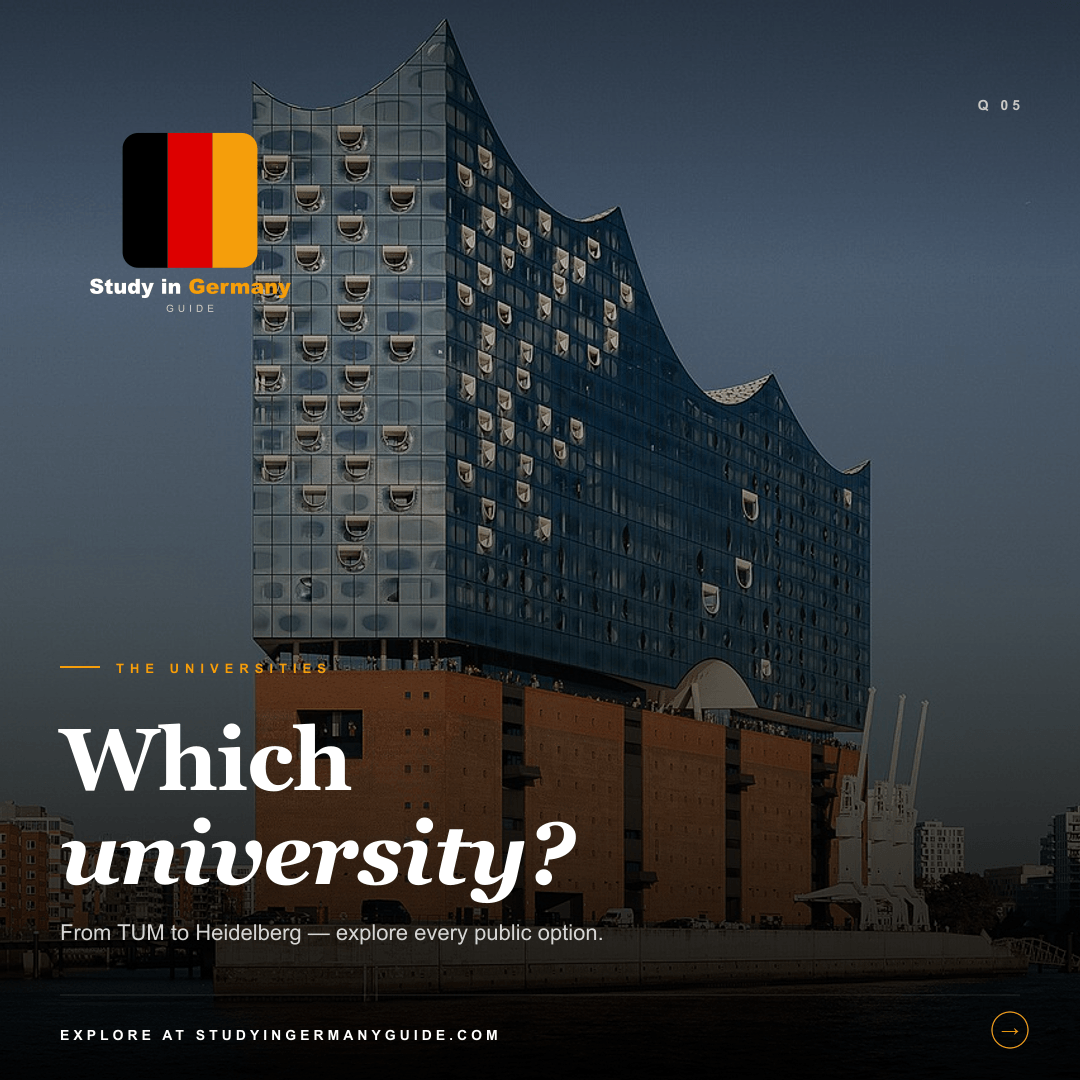
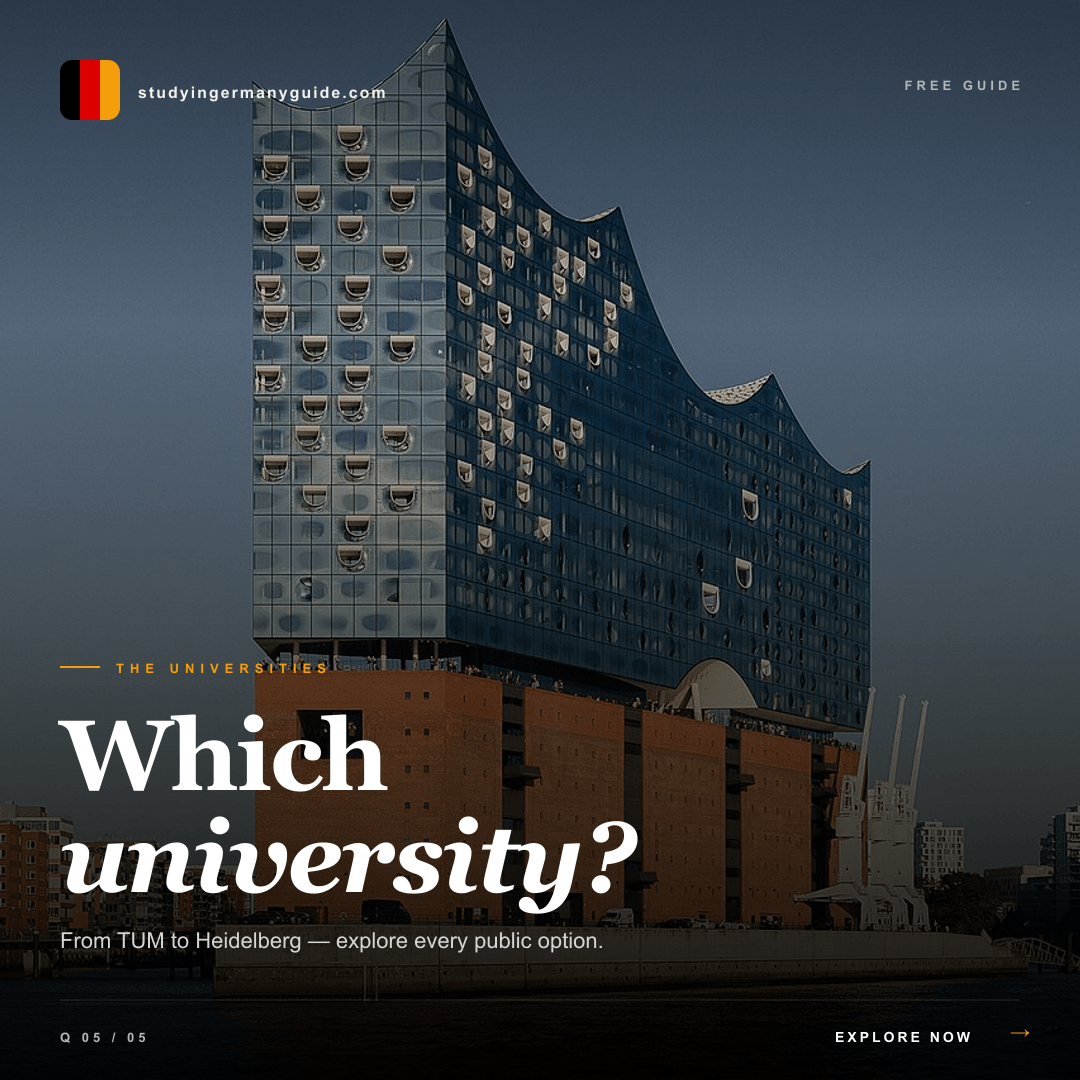
Clean editorial series: small brand mark + question-based headlines
- Tiny flag icon + studyingermanyguide.com top-left
- FREE GUIDE tag top-right
- Editorial Georgia serif headlines (different per post)
- Q 01-05 series indicator
- Action-oriented CTAs (READ THE ANSWER, USE THE CALCULATOR, etc.)
- No text duplication

diff --git a/scripts/generate-posts.js b/scripts/generate-posts.js
@@ -1,21 +1,20 @@
-// Editorial Instagram series — uses ACTUAL logo file
+// Premium Instagram series — clean composition, no text duplication
 import sharp from "sharp";
 import path from "path";
 
 const OUT = path.resolve("public/insta-posts");
-const LOGO = path.resolve("public/logo.svg");
 
 // ━━━━━━━━━━━━━━━━━━━━━━━━━━━━━━━━━━━━━━━━━━━━━
-// Smooth gradient — text legibility
+// Smooth gradient
 // ━━━━━━━━━━━━━━━━━━━━━━━━━━━━━━━━━━━━━━━━━━━━━
 function gradientOverlay() {
   return Buffer.from(`<svg xmlns="http://www.w3.org/2000/svg" width="1080" height="1080">
     <defs>
       <linearGradient id="g" x1="0" y1="0" x2="0" y2="1">
-        <stop offset="0%"  stop-color="black" stop-opacity="0.40"/>
-        <stop offset="25%" stop-color="black" stop-opacity="0.10"/>
+        <stop offset="0%"  stop-color="black" stop-opacity="0.35"/>
+        <stop offset="30%" stop-color="black" stop-opacity="0.05"/>
         <stop offset="55%" stop-color="black" stop-opacity="0.35"/>
-        <stop offset="100%" stop-color="black" stop-opacity="0.94"/>
+        <stop offset="100%" stop-color="black" stop-opacity="0.93"/>
       </linearGradient>
     </defs>
     <rect width="1080" height="1080" fill="url(#g)"/>
@@ -23,27 +22,51 @@ function gradientOverlay() {
 }
 
 // ━━━━━━━━━━━━━━━━━━━━━━━━━━━━━━━━━━━━━━━━━━━━━
-// Top-right series indicator
+// SMALL clean brand mark — just flag + tiny tag (NO duplicate text)
 // ━━━━━━━━━━━━━━━━━━━━━━━━━━━━━━━━━━━━━━━━━━━━━
-function seriesIndicator(label) {
+function brandMark() {
   return Buffer.from(`<svg xmlns="http://www.w3.org/2000/svg" width="1080" height="1080">
-    <g transform="translate(1020, 110)">
+    <g transform="translate(60, 60)">
+      <!-- Small German flag block (60x60) -->
+      <defs>
+        <clipPath id="rf">
+          <rect x="0" y="0" width="60" height="60" rx="12" ry="12"/>
+        </clipPath>
+      </defs>
+      <g clip-path="url(#rf)">
+        <rect x="0"  y="0" width="20" height="60" fill="#000000"/>
+        <rect x="20" y="0" width="20" height="60" fill="#DD0000"/>
+        <rect x="40" y="0" width="20" height="60" fill="#F59E0B"/>
+      </g>
+
+      <!-- Tiny website handle next to flag -->
+      <text x="78" y="38"
+            font-family="Arial, sans-serif"
+            font-size="16"
+            font-weight="600"
+            fill="#FFFFFF"
+            letter-spacing="2"
+            opacity="0.92">studyingermanyguide.com</text>
+    </g>
+
+    <!-- Top-right: minimal tag -->
+    <g transform="translate(1020, 90)">
       <text x="0" y="0"
             font-family="Arial, sans-serif"
-            font-size="14"
+            font-size="13"
             font-weight="600"
             fill="#FFFFFF"
             text-anchor="end"
-            opacity="0.7"
-            letter-spacing="4">${label}</text>
+            opacity="0.6"
+            letter-spacing="4">FREE GUIDE</text>
     </g>
   </svg>`);
 }
 
 // ━━━━━━━━━━━━━━━━━━━━━━━━━━━━━━━━━━━━━━━━━━━━━
-// Editorial content — eyebrow + question + tagline + CTA
+// Editorial content
 // ━━━━━━━━━━━━━━━━━━━━━━━━━━━━━━━━━━━━━━━━━━━━━
-function contentOverlay({ eyebrow, headline1, headline2, tagline, cta }) {
+function contentOverlay({ eyebrow, headline1, headline2, tagline, footer, series }) {
   return Buffer.from(`<svg xmlns="http://www.w3.org/2000/svg" width="1080" height="1080">
     <!-- Eyebrow -->
     <g transform="translate(60, 660)">
@@ -59,20 +82,20 @@ function contentOverlay({ eyebrow, headline1, headline2, tagline, cta }) {
     <!-- Editorial headline -->
     <text x="60" y="790"
           font-family="Georgia, serif"
-          font-size="88"
+          font-size="100"
           font-weight="700"
           fill="#FFFFFF"
-          letter-spacing="-1">${headline1}</text>
-    <text x="60" y="884"
+          letter-spacing="-2">${headline1}</text>
+    <text x="60" y="892"
           font-family="Georgia, serif"
-          font-size="88"
+          font-size="100"
           font-weight="700"
           fill="#FFFFFF"
-          letter-spacing="-1"
+          letter-spacing="-2"
           font-style="italic">${headline2}</text>
 
     <!-- Tagline -->
-    <text x="60" y="940"
+    <text x="60" y="948"
           font-family="Arial, sans-serif"
           font-size="22"
           font-weight="400"
@@ -80,98 +103,49 @@ function contentOverlay({ eyebrow, headline1, headline2, tagline, cta }) {
           opacity="0.82">${tagline}</text>
 
     <!-- Hairline -->
-    <line x1="60" y1="995" x2="1020" y2="995" stroke="#FFFFFF" stroke-width="0.5" opacity="0.25"/>
+    <line x1="60" y1="1000" x2="1020" y2="1000" stroke="#FFFFFF" stroke-width="0.5" opacity="0.25"/>
 
-    <!-- Footer -->
-    <text x="60" y="1040"
+    <!-- Footer left: series indicator -->
+    <text x="60" y="1042"
+          font-family="Arial, sans-serif"
+          font-size="13"
+          font-weight="600"
+          fill="#FFFFFF"
+          opacity="0.7"
+          letter-spacing="4">${series}</text>
+
+    <!-- Footer right: cta + arrow -->
+    <text x="970" y="1042"
           font-family="Arial, sans-serif"
           font-size="14"
           font-weight="600"
           fill="#FFFFFF"
-          letter-spacing="4">${cta}</text>
+          text-anchor="end"
+          letter-spacing="3">${footer}</text>
 
-    <g transform="translate(1010, 1030)">
-      <circle cx="0" cy="0" r="18" fill="none" stroke="#F59E0B" stroke-width="1.2"/>
+    <g transform="translate(1020, 1032)">
       <text x="0" y="6"
             font-family="Arial, sans-serif"
-            font-size="18"
-            font-weight="500"
+            font-size="20"
+            font-weight="700"
             fill="#F59E0B"
             text-anchor="middle">→</text>
     </g>
   </svg>`);
 }
 
-// ━━━━━━━━━━━━━━━━━━━━━━━━━━━━━━━━━━━━━━━━━━━━━
-// Prepare logo PNG (small, white-text version for dark photo overlay)
-// We render the actual logo SVG but invert colors for dark backgrounds.
-// ━━━━━━━━━━━━━━━━━━━━━━━━━━━━━━━━━━━━━━━━━━━━━
-async function getLogoBuffer() {
-  // Create a version with white text on transparent for dark backgrounds.
-  const logoForDark = `<svg xmlns="http://www.w3.org/2000/svg" viewBox="0 0 1080 1080" width="1080" height="1080">
-    <g transform="translate(280, 320)">
-      <defs>
-        <clipPath id="rf">
-          <rect x="0" y="0" width="520" height="520" rx="60" ry="60"/>
-        </clipPath>
-      </defs>
-      <g clip-path="url(#rf)">
-        <rect x="0"   y="0" width="174" height="520" fill="#000000"/>
-        <rect x="174" y="0" width="173" height="520" fill="#DD0000"/>
-        <rect x="347" y="0" width="173" height="520" fill="#F59E0B"/>
-      </g>
-    </g>
-    <text x="540" y="940"
-          font-family="Arial Black, sans-serif"
-          font-size="80"
-          font-weight="900"
-          fill="#FFFFFF"
-          text-anchor="middle">Study in <tspan fill="#F59E0B">Germany</tspan></text>
-    <text x="540" y="1010"
-          font-family="Arial, sans-serif"
-          font-size="38"
-          font-weight="500"
-          fill="#FFFFFF"
-          opacity="0.7"
-          text-anchor="middle"
-          letter-spacing="16">GUIDE</text>
-  </svg>`;
-
-  // Render logo at smaller size (220px wide) for placement top-left of post
-  return await sharp(Buffer.from(logoForDark))
-    .resize(280, 280)
-    .png()
-    .toBuffer();
-}
-
-// Top-left logo positioning
-async function logoOverlay() {
-  const logoBuffer = await getLogoBuffer();
-  // Composite logo at position (60, 50) on a 1080x1080 transparent canvas
-  return await sharp({
-    create: { width: 1080, height: 1080, channels: 4, background: { r: 0, g: 0, b: 0, alpha: 0 } }
-  })
-    .composite([{ input: logoBuffer, top: 50, left: 50 }])
-    .png()
-    .toBuffer();
-}
-
 async function makePost({
   photo, output,
-  series,
-  eyebrow, headline1, headline2, tagline, cta,
+  series, eyebrow, headline1, headline2, tagline, footer,
 }) {
-  const logo = await logoOverlay();
-
   await sharp(`public/cities/${photo}`)
     .resize(1080, 1080, { fit: "cover", position: "center" })
     .modulate({ saturation: 1.05, brightness: 0.88 })
     .composite([
       { input: gradientOverlay(), blend: "over" },
-      { input: logo, blend: "over" },
-      { input: seriesIndicator(series), blend: "over" },
+      { input: brandMark(), blend: "over" },
       {
-        input: contentOverlay({ eyebrow, headline1, headline2, tagline, cta }),
+        input: contentOverlay({ eyebrow, headline1, headline2, tagline, footer, series }),
         blend: "over",
       },
     ])
@@ -182,79 +156,79 @@ async function makePost({
 }
 
 async function run() {
-  // Post 1 — Welcome
+  // Post 1 — Welcome (intro)
   await makePost({
     photo: "berlin.jpg",
     output: "post-1.png",
     series: "INTRO",
     eyebrow: "WELCOME",
-    headline1: "Study in",
-    headline2: "Germany.",
-    tagline: "A complete guide — written by students who've been there.",
-    cta: "STUDYINGERMANYGUIDE.COM",
+    headline1: "Hello,",
+    headline2: "future student.",
+    tagline: "A complete guide to studying in Germany — by students, for students.",
+    footer: "READ NOW",
   });
 
   // Post 2 — Why Germany?
   await makePost({
     photo: "heidelberg.jpg",
     output: "post-2.png",
-    series: "Q 01",
+    series: "Q 01 / 05",
     eyebrow: "THE WHY",
     headline1: "Why",
     headline2: "Germany?",
     tagline: "World-class education. Tuition-free. A future, not a fee.",
-    cta: "READ AT STUDYINGERMANYGUIDE.COM",
+    footer: "READ THE ANSWER",
   });
 
   // Post 3 — Which country?
   await makePost({
     photo: "munich.jpg",
     output: "post-3.png",
-    series: "Q 02",
+    series: "Q 02 / 05",
     eyebrow: "THE WHO",
-    headline1: "Which",
-    headline2: "country?",
+    headline1: "Where",
+    headline2: "are you from?",
     tagline: "Country-specific guides — APS, embassy, documents.",
-    cta: "GUIDES AT STUDYINGERMANYGUIDE.COM",
+    footer: "FIND YOUR GUIDE",
   });
 
   // Post 4 — Cost
   await makePost({
     photo: "cologne.jpg",
     output: "post-4.png",
-    series: "Q 03",
+    series: "Q 03 / 05",
     eyebrow: "THE COST",
-    headline1: "What",
-    headline2: "it costs.",
+    headline1: "Can",
+    headline2: "I afford it?",
     tagline: "Tuition, rent, food — the honest numbers, no fluff.",
-    cta: "CALCULATOR AT STUDYINGERMANYGUIDE.COM",
+    footer: "USE THE CALCULATOR",
   });
 
   // Post 5 — Visa
   await makePost({
     photo: "frankfurt.jpg",
     output: "post-5.png",
-    series: "Q 04",
+    series: "Q 04 / 05",
     eyebrow: "THE VISA",
-    headline1: "Visa,",
-    headline2: "demystified.",
-    tagline: "What's true, what's myth — step by step.",
-    cta: "GUIDE AT STUDYINGERMANYGUIDE.COM",
+    headline1: "How long",
+    headline2: "is the visa?",
+    tagline: "Real timelines — what's true, what's myth, step by step.",
+    footer: "GET THE GUIDE",
   });
 
   // Post 6 — Universities
   await makePost({
     photo: "hamburg.jpg",
     output: "post-6.png",
-    series: "Q 05",
+    series: "Q 05 / 05",
     eyebrow: "THE UNIVERSITIES",
     headline1: "Which",
     headline2: "university?",
     tagline: "From TUM to Heidelberg — explore every public option.",
-    cta: "EXPLORE AT STUDYINGERMANYGUIDE.COM",
+    footer: "EXPLORE NOW",
   });
 
-  console.log("\n6 posts ready with actual logo!");
+  console.log("\n6 clean editorial posts ready.");
 }
 
 run().catch(console.error);
